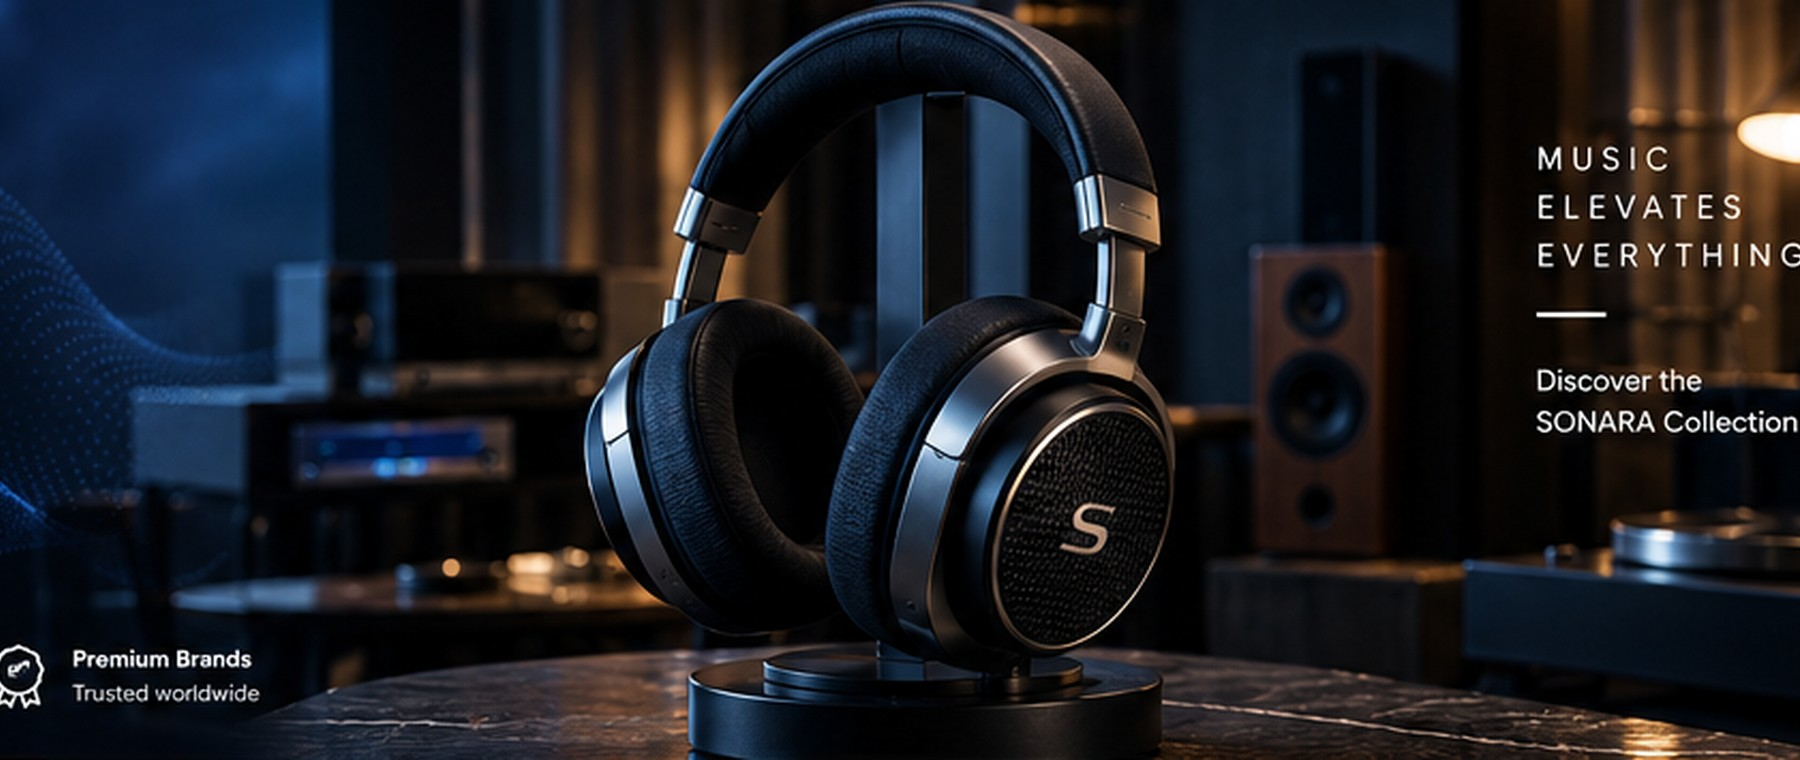
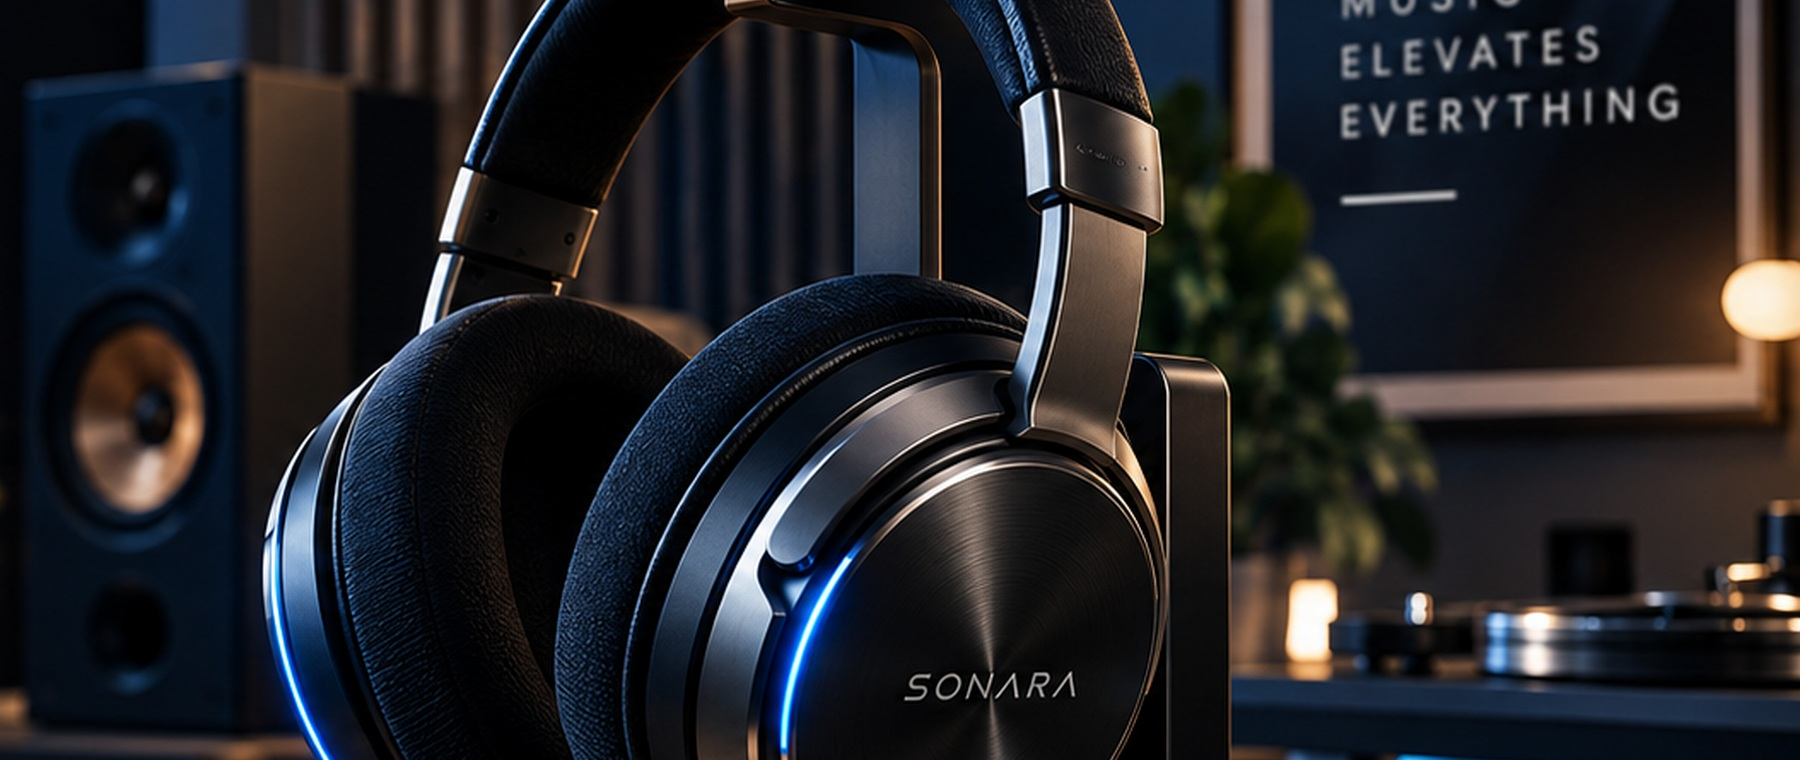
Add files via upload

diff --git a/css/style.css b/css/style.css
@@ -2,8 +2,8 @@
 :root{--bg:#070a0e;--panel:#0d1218;--panel2:#121923;--text:#f5f7fa;--muted:#9aa6b2;--line:#26313d;--blue:#2e8bff;--blue2:#0b6fff;--white:#fff;--soft:#eef3f8;--ink:#0b0f14;--radius:18px}
 *{box-sizing:border-box}html{scroll-behavior:smooth}body{margin:0;font-family:Inter,system-ui,-apple-system,Segoe UI,sans-serif;background:#f5f7fa;color:var(--ink);line-height:1.5}a{text-decoration:none;color:inherit}button,input,select{font:inherit}
 .topbar{background:#070a0e;color:#dbe5ef;border-bottom:1px solid #1c2732;display:flex;justify-content:space-between;gap:20px;padding:10px 5vw;font-size:13px}.topbar .accent{color:#66aaff}
-.nav{background:#080c11;color:white;display:flex;align-items:center;gap:34px;padding:16px 5vw;position:sticky;top:0;z-index:20;border-bottom:1px solid #1b2530}.brand{width:175px}.brand img{width:165px;height:auto;display:block}.navlinks{display:flex;gap:22px;align-items:center;flex:1}.navlinks a{color:#d9e1e9;font-size:14px}.navlinks a:hover,.navlinks a.active{color:#58a4ff}.search{display:flex;align-items:center;background:#131b24;border:1px solid #2b3845;border-radius:999px;padding:0 16px;width:285px}.search input{background:none;border:0;outline:0;color:#fff;width:100%;padding:11px 8px}.search input::placeholder{color:#8190a0}.nav-actions{display:flex;gap:12px}.iconbtn{border:1px solid #2b3845;background:#101720;color:#fff;width:42px;height:42px;border-radius:50%;cursor:pointer}.count{font-size:10px;background:var(--blue);padding:2px 5px;border-radius:10px;position:relative;top:-9px;left:17px}
-.hero{min-height:580px;background:#071019 url('../assets/images/banners/hero.jpg') center/cover no-repeat;color:white;display:flex;align-items:center;padding:70px 7vw;position:relative}.hero:after{content:"";position:absolute;inset:0;background:linear-gradient(90deg,rgba(3,7,12,.94) 0%,rgba(3,7,12,.65) 40%,rgba(3,7,12,.12) 75%)}.hero-content{position:relative;z-index:1;max-width:610px}.eyebrow{letter-spacing:.24em;text-transform:uppercase;color:#78b5ff;font-size:13px}.hero h1{font-size:clamp(48px,6vw,84px);line-height:.95;margin:16px 0}.hero p{font-size:18px;color:#d9e4ef;max-width:540px}.actions{display:flex;gap:12px;margin:28px 0}.btn{border:1px solid #31506d;background:#fff;color:#071019;padding:13px 20px;border-radius:999px;font-weight:700;cursor:pointer}.btn.primary{background:var(--blue);color:white;border-color:var(--blue)}.btn.ghost{background:transparent;color:white;border-color:#7c8c9d}.benefits{display:flex;gap:25px;margin-top:35px}.benefit{font-size:12px;color:#d6e0ea}.benefit b{display:block;color:white;font-size:14px}
+.nav{background:#080c11;color:white;display:flex;align-items:center;gap:34px;padding:16px 5vw;position:sticky;top:0;z-index:20;border-bottom:1px solid #1b2530}.brand{width:190px}.brand img{width:185px;height:56px;object-fit:contain;display:block}.navlinks{display:flex;gap:22px;align-items:center;flex:1}.navlinks a{color:#d9e1e9;font-size:14px}.navlinks a:hover,.navlinks a.active{color:#58a4ff}.search{display:flex;align-items:center;background:#131b24;border:1px solid #2b3845;border-radius:999px;padding:0 16px;width:285px}.search input{background:none;border:0;outline:0;color:#fff;width:100%;padding:11px 8px}.search input::placeholder{color:#8190a0}.nav-actions{display:flex;gap:12px}.iconbtn{border:1px solid #2b3845;background:#101720;color:#fff;width:42px;height:42px;border-radius:50%;cursor:pointer}.count{font-size:10px;background:var(--blue);padding:2px 5px;border-radius:10px;position:relative;top:-9px;left:17px}
+.hero{min-height:580px;background:#071019 url('../assets/images/banners/hero.jpg') 68% center/cover no-repeat;color:white;display:flex;align-items:center;padding:70px 7vw;position:relative}.hero:after{content:"";position:absolute;inset:0;background:linear-gradient(90deg,rgba(3,7,12,.98) 0%,rgba(3,7,12,.86) 34%,rgba(3,7,12,.34) 67%,rgba(3,7,12,.12) 100%)}.hero-content{position:relative;z-index:1;max-width:610px}.eyebrow{letter-spacing:.24em;text-transform:uppercase;color:#78b5ff;font-size:13px}.hero h1{font-size:clamp(48px,6vw,84px);line-height:.95;margin:16px 0}.hero p{font-size:18px;color:#d9e4ef;max-width:540px}.actions{display:flex;gap:12px;margin:28px 0}.btn{border:1px solid #31506d;background:#fff;color:#071019;padding:13px 20px;border-radius:999px;font-weight:700;cursor:pointer}.btn.primary{background:var(--blue);color:white;border-color:var(--blue)}.btn.ghost{background:transparent;color:white;border-color:#7c8c9d}.benefits{display:flex;gap:25px;margin-top:35px}.benefit{font-size:12px;color:#d6e0ea}.benefit b{display:block;color:white;font-size:14px}
 .container{width:min(1400px,90%);margin:auto}.section{padding:70px 0}.section-head{display:flex;justify-content:space-between;align-items:end;margin-bottom:28px}.section h2{font-size:34px;margin:0}.muted{color:#6c7884}.categories{display:grid;grid-template-columns:repeat(10,1fr);gap:10px;margin-top:0;background:#fff;padding:18px 5vw}.cat{border:1px solid #e1e6eb;border-radius:14px;overflow:hidden;background:#fff;text-align:center;transition:.2s}.cat:hover{transform:translateY(-4px);box-shadow:0 12px 30px rgba(10,30,50,.1)}.cat img{width:100%;aspect-ratio:1.2;object-fit:contain;display:block;background:#fff;padding:8px}.cat span{display:block;padding:12px 6px;font-size:13px;font-weight:700}
 .promo-grid{display:grid;grid-template-columns:repeat(3,1fr);gap:16px}.promo{height:260px;border-radius:18px;overflow:hidden;position:relative;background:#10151c}.promo img{width:100%;height:100%;object-fit:cover}.promo:after{content:"";position:absolute;inset:0;background:linear-gradient(90deg,rgba(0,0,0,.72),rgba(0,0,0,.1))}.promo-copy{position:absolute;z-index:2;left:26px;top:28px;color:#fff;max-width:260px}.promo-copy h3{font-size:28px;line-height:1.05;margin:0 0 10px}.promo-copy p{font-size:14px;color:#e1e8ef}.promo-copy .btn{padding:10px 15px}
 .product-grid{display:grid;grid-template-columns:repeat(4,1fr);gap:18px}.product{background:#fff;border:1px solid #dfe5ea;border-radius:18px;overflow:hidden;position:relative;transition:.2s}.product:hover{transform:translateY(-5px);box-shadow:0 15px 35px rgba(11,25,40,.12)}.product-media{height:310px;background:#fff;position:relative;overflow:hidden}.product-media img{width:100%;height:100%;object-fit:contain;display:block;background:#fff;padding:12px}.badge{position:absolute;left:14px;top:14px;background:var(--blue);color:#fff;padding:5px 9px;border-radius:999px;font-size:11px;font-weight:700}.heart{position:absolute;right:14px;top:14px;width:36px;height:36px;border-radius:50%;border:1px solid #d7dee6;background:#fff;cursor:pointer}.product-info{padding:18px}.product-info small{color:#6f7b86;text-transform:uppercase;letter-spacing:.1em}.product-info h3{margin:7px 0;font-size:18px}.rating{color:#f6a400;font-size:14px}.price{font-size:20px;font-weight:800;margin-top:7px}.product-actions{display:flex;gap:8px;margin-top:14px}.product-actions button{flex:1;border:1px solid #cfd7df;background:white;padding:10px;border-radius:10px;cursor:pointer}.product-actions .add{background:#0b1016;color:white;border-color:#0b1016}

diff --git a/index.html b/index.html
@@ -6,5 +6,10 @@
 <section class="section" id="discover"><div class="promo-grid"><article class="promo"><img src="assets/images/banners/find-your-sound.jpg"><div class="promo-copy"><h3>Find Your Sound</h3><p>Personalized recommendations for your space, taste and lifestyle.</p><a class="btn" href="finder.html">Take the Audio Quiz →</a></div></article><article class="promo"><img src="assets/images/banners/home-audio.jpg"><div class="promo-copy"><h3>Home Audio Reimagined</h3><p>Build a listening room with performance and design in balance.</p><a class="btn" href="collections.html">Explore Home Audio →</a></div></article><article class="promo"><img src="assets/images/banners/turntables.jpg"><div class="promo-copy"><h3>Timeless Sound</h3><p>Discover the ritual of vinyl with modern precision.</p><a class="btn" href="shop.html">Shop Turntables →</a></div></article></div></section>
 <section class="section"><div class="section-head"><div><span class="eyebrow">Curated selection</span><h2>Featured Products</h2></div><a href="shop.html">View all →</a></div><div id="product-grid" class="product-grid"></div></section>
 <section class="dark-section section"><div class="container finder"><div><span class="eyebrow">SONARA Finder</span><h2>Build your ideal listening setup.</h2><p class="muted">Answer a few questions and explore headphones, speakers, Hi-Fi and home theater paths tailored to how you listen.</p><div class="chips"><button class="chip active">Headphones</button><button class="chip">Home Audio</button><button class="chip">Vinyl</button><button class="chip">Studio</button><button class="chip">Cinema</button></div><a class="btn primary" href="finder.html">Start Audio Finder →</a></div><img src="assets/images/banners/studio.jpg" alt="Premium audio studio"></div></section>
-<section class="section"><div class="editorial"><img src="assets/images/banners/room-audio.jpg" alt="Modern listening room"><div class="editorial-card"><span class="eyebrow">SONARA Journal</span><h2>How to build a room that sounds as good as it looks.</h2><p class="muted">Explore guides to speaker placement, headphone selection, vinyl listening and home theater design.</p><a class="btn primary" href="journal.html">Read the Journal →</a></div></div></section>
+<section class="section"><div class="editorial">
+<img src="assets/images/banners/room-audio.jpg" alt="Modern SONARA listening room">
+<div class="editorial-card"><span class="eyebrow">SONARA Journal</span>
+<h2>Build a room that sounds as good as it looks.</h2>
+<p class="muted">Explore practical guides for speaker placement, headphone selection, vinyl listening and home theater design.</p>
+<a class="btn primary" href="journal.html">Read the Journal →</a></div></div></section>
 </main><footer class="footer"><div class="footer-grid"><div><img src="assets/images/brand/sonara-logo.jpg" style="width:190px;background:#000;border-radius:8px" alt="SONARA Audio"><p>Premium sound for every space. Headphones, speakers, Hi-Fi, home theater and creator audio.</p><p>Seattle, Washington, United States<br>support@sonaraaudio.com<br>+1 (206) 555-0148</p></div><div><h4>Shop</h4><a href="shop.html">All Products</a><a href="categories.html">Headphones</a><a href="categories.html">Speakers</a><a href="categories.html">Turntables</a><a href="categories.html">Home Theater</a></div><div><h4>Experience</h4><a href="collections.html">Collections</a><a href="journal.html">Journal</a><a href="about.html">About SONARA</a><a href="support.html">Support</a></div><div><h4>Newsletter</h4><p>Audio guides, new releases and curated listening inspiration.</p><form class="form" onsubmit="event.preventDefault();toast('Thanks for subscribing')"><input placeholder="Email address"><button class="btn primary">Subscribe</button></form></div></div><div class="footer-bottom">© 2026 SONARA Audio. All rights reserved.</div></footer><div class="overlay" onclick="closeCart()"></div><aside class="drawer"><button class="btn" onclick="closeCart()">Close</button><h2>Your Cart</h2><div data-cart></div></aside><div class="toast"></div><script src="js/app.js"></script></body></html>

diff --git a/docs/IMAGE-POLICY.md b/docs/IMAGE-POLICY.md
@@ -1,20 +1,17 @@
-# SONARA Image Policy — V4
+# SONARA Image Policy — V5
 
-SONARA product imagery is generated specifically for this storefront and stored locally.
+All primary storefront imagery is locally stored.
 
-Every product photo must look like a real premium catalog photograph:
-- clean white studio background
-- complete product visible
-- centered composition
-- realistic materials and lighting
-- soft natural shadow
-- no website screenshot
-- no prices
-- no product names
-- no ratings or stars
-- no badges
-- no buttons
-- no hearts
-- no interface elements
+## Product images
+- One product per photo.
+- Complete product visible.
+- Clean studio presentation.
+- No prices, names, stars, badges, buttons, hearts or website UI inside the photo.
 
-The website UI is always rendered outside the photograph.
+## Hero
+- Cinematic generated photography.
+- The website's headline, CTA and benefits are HTML/CSS, not baked into the hero photograph.
+
+## Logo
+- Clean transparent local wordmark/monogram.
+- No screenshot or website UI.

diff --git a/CHANGELOG.md b/CHANGELOG.md
@@ -1,11 +1,9 @@
 # Changelog
 
-## V1
-- Complete SONARA Audio ecommerce concept
-- Local product and lifestyle imagery
-- 12-product catalog
-- Individual product pages
-- Search, category filters, wishlist and cart
-- Audio Finder
-- Collections, Journal, About and Support pages
-- Responsive dark premium design
+## V5
+- Replaced the hero photography with a new generated SONARA cinematic scene.
+- Removed the duplicate/non-functional hero-style image treatment from the homepage.
+- Rebuilt the header logo as a clean transparent local asset.
+- Improved hero overlay and image positioning.
+- Kept the complete ecommerce catalog and product functionality from V4.
+- Product photography remains local, deterministic and free of interface text.
